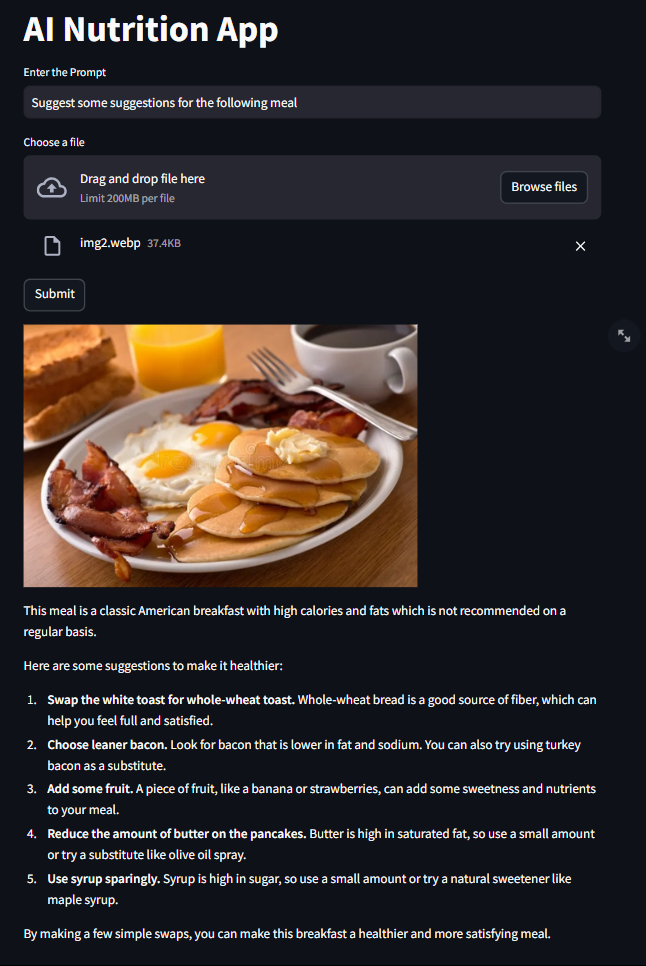
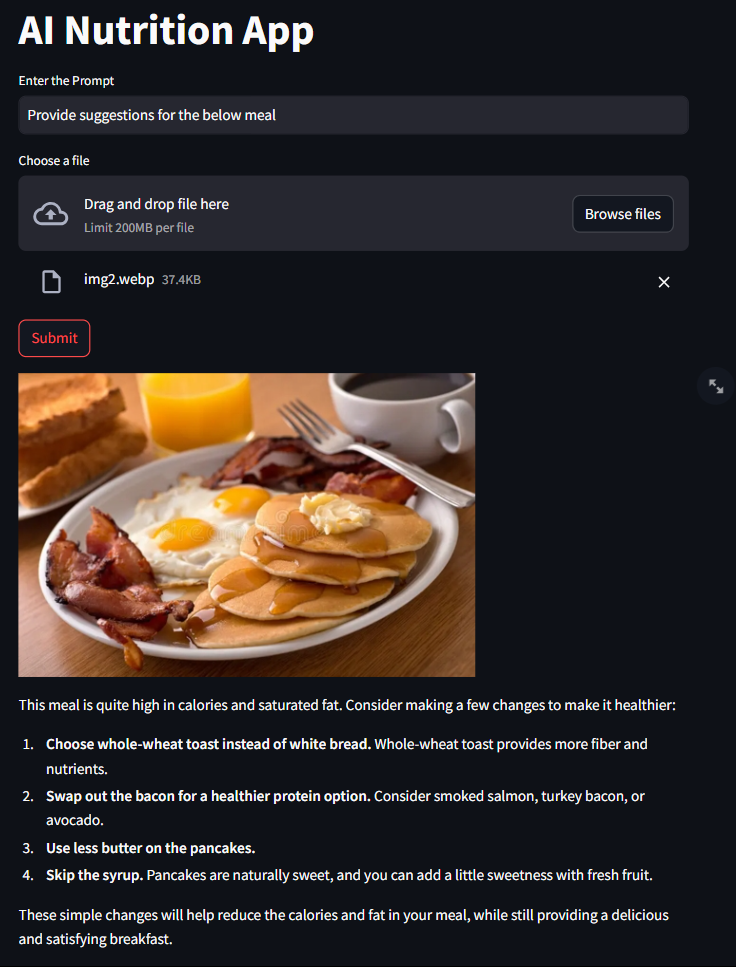
Updated the project

diff --git a/app.py b/app.py
@@ -22,7 +22,7 @@ model = genai.GenerativeModel(
   system_instruction='''You are a Nutrition specialist and based on the food image provided by the user assume the following,
 A standard recipe is used to prepare the food, i.e. traditional methods
 It is a person's portion size
-
+Answer the questions asked by the user.
 If total calories were asked, remember to provide an approximate amount of calories list all the items along with the count, and also mention their respective calories. At last, provide the total calories.
 The format is :
 1. Item 1 (count) - no. of calories
@@ -30,7 +30,7 @@ The format is :
 ...
 Total Calories:
 
-If any other questions are asked, answer them too.
+If any other questions/suggestions were asked, answer them too.
 Don't mention its hard to calculate calories, just provide the appropriate value '''
 )
 
